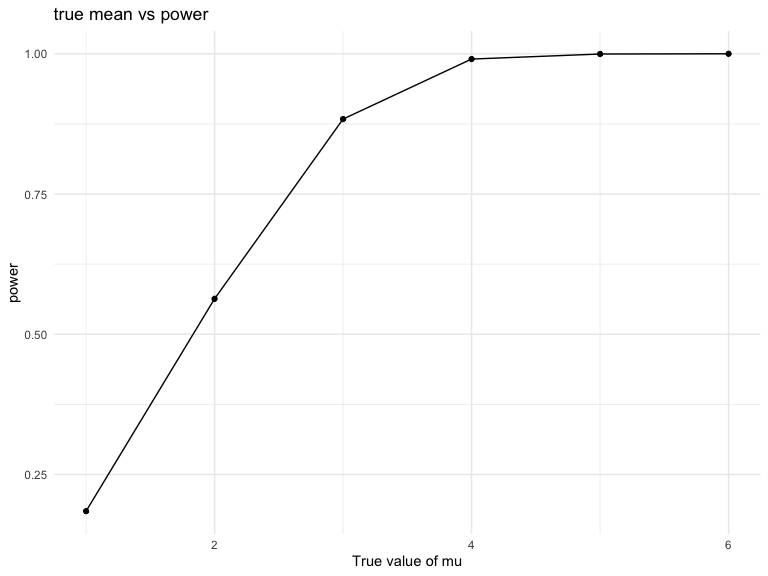
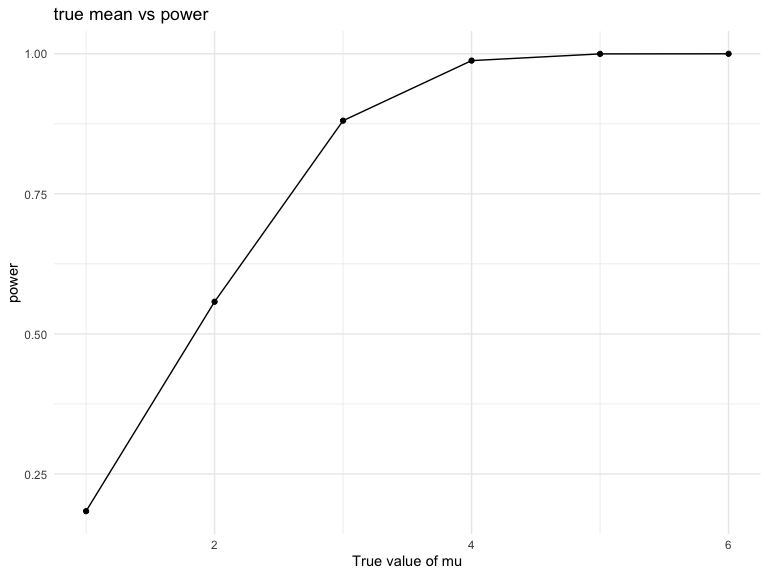
fix some typo

diff --git a/p8105_hw5_jy3270.md b/p8105_hw5_jy3270.md
@@ -286,6 +286,9 @@ summary
     ## 10 Cincinnati, OH          694            309
     ## # … with 40 more rows
 
+Since Tulsa, Al is a wrong combination of city_state, we choose to
+eliminate it.
+
 For the city of Baltimore, MD. We use the prop.test function to estimate
 the proportion of homicides that are unsolved
 
@@ -377,16 +380,16 @@ sim_results_mu_0
     ## # A tibble: 5,000 × 4
     ##       mu  iter estimate p.value
     ##    <dbl> <int>    <dbl>   <dbl>
-    ##  1     0     1  -0.234    0.766
-    ##  2     0     2  -1.07     0.104
-    ##  3     0     3   1.18     0.204
-    ##  4     0     4   1.21     0.195
-    ##  5     0     5  -0.0976   0.903
-    ##  6     0     6   0.708    0.459
-    ##  7     0     7   0.554    0.569
-    ##  8     0     8  -0.0536   0.947
-    ##  9     0     9  -0.194    0.798
-    ## 10     0    10  -0.219    0.815
+    ##  1     0     1 -1.86     0.0296
+    ##  2     0     2 -0.229    0.830 
+    ##  3     0     3 -0.588    0.532 
+    ##  4     0     4 -1.90     0.0552
+    ##  5     0     5 -0.883    0.284 
+    ##  6     0     6 -0.00856  0.992 
+    ##  7     0     7  0.494    0.574 
+    ##  8     0     8 -0.386    0.696 
+    ##  9     0     9 -0.116    0.876 
+    ## 10     0    10 -0.246    0.779 
     ## # … with 4,990 more rows
 
 Repeat the above for mu={1,2,3,4,5,6}
@@ -408,16 +411,16 @@ sim_results_mu_1to6
     ## # A tibble: 30,000 × 4
     ##       mu  iter estimate p.value
     ##    <int> <int>    <dbl>   <dbl>
-    ##  1     1     1  0.747    0.368 
-    ##  2     1     2  1.41     0.0775
-    ##  3     1     3  1.71     0.0406
-    ##  4     1     4  0.520    0.631 
-    ##  5     1     5 -0.174    0.864 
-    ##  6     1     6 -0.365    0.646 
-    ##  7     1     7 -0.462    0.612 
-    ##  8     1     8 -0.00185  0.999 
-    ##  9     1     9  1.66     0.0432
-    ## 10     1    10  1.94     0.0835
+    ##  1     1     1  0.00505  0.995 
+    ##  2     1     2  0.646    0.474 
+    ##  3     1     3  0.710    0.365 
+    ##  4     1     4  0.204    0.846 
+    ##  5     1     5 -1.53     0.0687
+    ##  6     1     6  1.59     0.0580
+    ##  7     1     7  0.559    0.486 
+    ##  8     1     8  2.02     0.0893
+    ##  9     1     9  1.77     0.0998
+    ## 10     1    10  0.171    0.850 
     ## # … with 29,990 more rows
 
 -   A plot showing the proportion of times the null was rejected (the
@@ -439,8 +442,8 @@ The power increases as mu increases. When the true mean is close to 0,
 the power is low: when effect size(mu) is 1, the power is about 0.125.
 When mu is above 4, the power is getting closer and closer to 1.
 
--   A plot showing the average estimate of mu hat on the y axis and the
-    true value of mu on the x axis.
+-   A plot showing the average estimate of $\hat \mu$ on the y axis and
+    the true value of mu on the x axis.
 
 ``` r
 mu_average = sim_results_mu_1to6 %>%
@@ -457,9 +460,9 @@ From the plot above, we can see that the average of all estimate u hat
 is roughly equals to the true mean. This also follows our expectation
 about normal distribution.
 
-Make a second plot (or overlay on the first) the average estimate of mu
-hat only in samples for which the null was rejected on the y axis and
-the true value of mu on the x axis.
+Make a second plot (or overlay on the first) the average estimate of
+$\hat \mu$ only in samples for which the null was rejected on the y axis
+and the true value of mu on the x axis.
 
 ``` r
 null_average = sim_results_mu_1to6 %>%
@@ -473,11 +476,11 @@ null_average
 
 <img src="p8105_hw5_jy3270_files/figure-gfm/unnamed-chunk-15-1.png" width="90%" />
 
-From the plot above, we can see that the sample average of mu hat for
-which the null was rejected does not roughly equal to the true mean when
-mu is small. However, when the effect size is large(mu \>= 4), the
-sample average of mu hat for which the null was rejected is roughly
-equal to the true mean.
+From the plot above, we can see that the sample average of $\hat \mu$
+for which the null was rejected does not roughly equal to the true mean
+when mu is small. However, when the effect size is large($\mu$ \>= 4),
+the sample average of $\hat \mu$ for which the null was rejected is
+roughly equal to the true mean.
 
 This difference might be due to the relationship between effect size and
 power we find before: when the effect size is small, the power is low,
@@ -486,8 +489,8 @@ effect or that the results are likely to be distorted by random and
 systematic error. In this case the t test is more likely to fail to
 reject the null(type 2 error). However, when the effect size is large,
 the power is high, so the t test are more capable of correctly rejecting
-the null. As a result, the number of mu hat from samples where the null
-was not rejected when it should is small As we compute the average
-estimate of mu hat only in samples for which the null was rejected and
-remove those whose null was reject removing them does not move the
-average of mu hat away from the the true value much.
+the null. As a result, the number of $\hat \mu$ from samples where the
+null was not rejected when it should is small As we compute the average
+estimate of $\hat \mu$ only in samples for which the null was rejected
+and remove those whose null was reject removing them does not move the
+average of $\hat \mu$ away from the the true value much.
